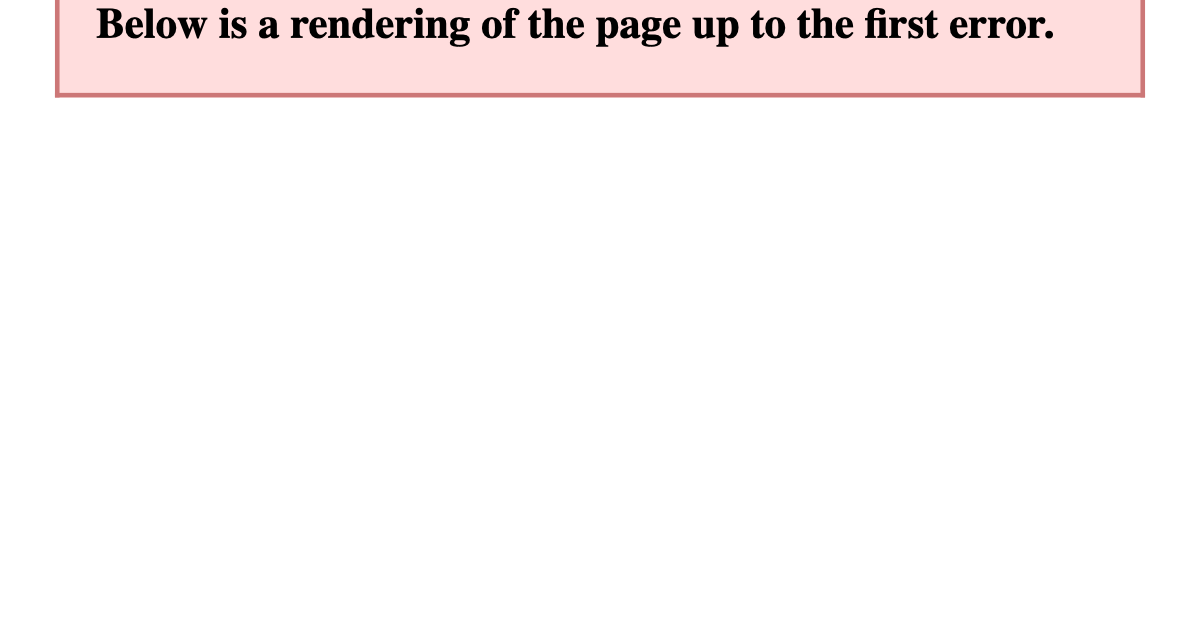
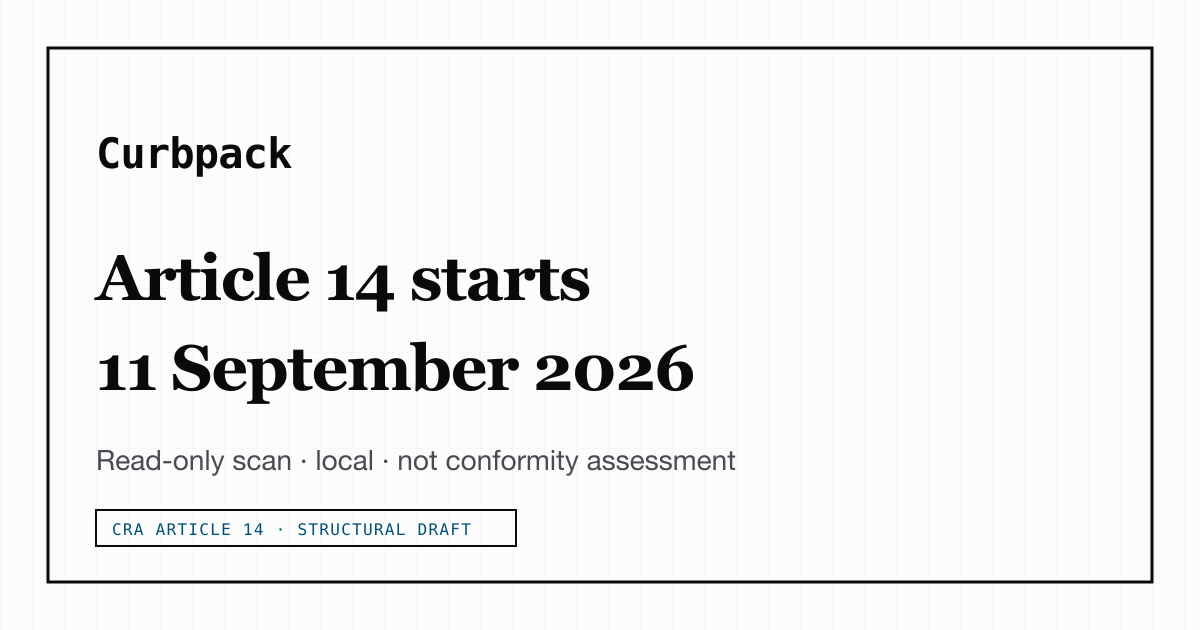
docs: expose launch limitations and repair public audit communication

Changed region(s): [[0.0308, 0.0, 0.9867, 0.9349], [0.0925, 0.7841, 0.4317, 0.8746]]

diff --git a/site/index.html b/site/index.html
@@ -4,9 +4,9 @@
   <meta charset="utf-8" />
   <meta name="viewport" content="width=device-width, initial-scale=1" />
   <title>Curbpack — local pack gates for human review</title>
-  <meta name="description" content="One read-only command tells you where your product stands on CRA Article 14. Runs locally. Writes nothing. Not conformity assessment." />
+  <meta name="description" content="Read-only checks of repository documents against local CRA rule packs. Runs locally. Writes nothing. Not conformity assessment." />
   <meta property="og:title" content="Article 14 starts 11 September 2026 — check your product in 60 seconds" />
-  <meta property="og:description" content="One read-only command tells you where your product stands on CRA Article 14. Runs locally. Writes nothing. Not conformity assessment." />
+  <meta property="og:description" content="Read-only checks of repository documents against local CRA rule packs. Runs locally. Writes nothing. Not conformity assessment." />
   <meta property="og:url" content="https://ri-se.github.io/curbpack/" />
   <meta property="og:image" content="https://ri-se.github.io/curbpack/assets/og-campaign.png" />
   <meta property="og:image:width" content="1200" />
@@ -125,12 +125,12 @@
             <h1 class="font-serif text-4xl sm:text-5xl lg:text-6xl font-semibold tracking-tight text-ink leading-[1.1] mb-4">
               Article 14 reporting starts 11 September 2026
             </h1>
-            <p id="art14-countdown" class="font-mono text-base sm:text-lg text-rise font-medium mb-6" aria-live="polite">Article 14 reporting starts in 23 days (11 September 2026)</p>
+            <p id="art14-countdown" class="font-mono text-base sm:text-lg text-rise font-medium mb-6" aria-live="polite">Article 14 reporting applies from 11 September 2026</p>
             <p class="text-lg sm:text-xl text-ink-muted mb-6 max-w-2xl leading-relaxed font-sans">
               One command, writes nothing — not certification. Curbpack scans your repo read-only on your machine; we never see your code.
             </p>
             <p class="text-base sm:text-lg text-ink mb-2 max-w-2xl leading-relaxed font-sans">
-              The gate is deterministic, runs offline, and cannot be argued with.
+              Curbpack runs local rule-pack checks offline. Findings are structural evidence for human review.
             </p>
             <p class="text-base sm:text-lg text-ink-muted mb-8 max-w-2xl leading-relaxed font-sans">
               We do not use a language model to decide whether you passed.
@@ -221,7 +221,7 @@
         <div class="text-center max-w-2xl mx-auto mb-16">
           <h2 class="font-serif text-3xl font-semibold text-ink mb-3">How it works</h2>
           <p class="text-ink-muted text-lg">Scan read-only → optional init → local check → review pack → human review.</p>
-          <p class="text-ink-muted text-base mt-3 max-w-xl mx-auto">The gate is deterministic, runs offline, and cannot be argued with. We do not use a language model to decide whether you passed.</p>
+          <p class="text-ink-muted text-base mt-3 max-w-xl mx-auto">Curbpack runs local rule-pack checks offline. Findings are structural evidence for human review. We do not use a language model to decide whether you passed.</p>
           <p class="text-ink-muted text-sm mt-3">Three ways in (Write, Bring, CI): <a href="https://github.com/RI-SE/curbpack/blob/main/docs/getting-started/60-second-paths.md" class="font-mono text-ink underline decoration-paper-dark hover:text-rise">60-second paths</a> · <a href="/curbpack/how-it-works/" class="font-mono text-ink underline decoration-paper-dark hover:text-rise">how it works</a></p>
           <p class="text-ink text-sm mt-4 font-medium">Receiving a pack? <a href="/curbpack/for-reviewers/#artifact-trust-table" class="font-mono underline decoration-paper-dark hover:text-rise">Artifact trust table</a> · <a href="/curbpack/receiving-submissions/" class="font-mono underline decoration-paper-dark hover:text-rise">Receiving submissions</a> · <a href="/curbpack/samples/review-pack/" class="font-mono underline decoration-paper-dark hover:text-rise">Sample review-pack</a> · In-repo: <code class="font-mono">curbpack review --repo</code> (<a href="/curbpack/for-reviewers/" class="font-mono underline decoration-paper-dark hover:text-rise">for reviewers</a>)</p>
         </div>
@@ -310,6 +310,8 @@
     </section>
 
   </main>
+
+  <p class="text-center px-6 py-4"><a href="https://github.com/RI-SE/curbpack/blob/main/docs/launch-status.md">Release status and audit limitations</a>: the installer supplies v0.5.4; later repository repairs require a new reviewed release.</p>
 
   <footer class="bg-ink text-paper py-16 mt-auto">
     <div class="max-w-7xl mx-auto px-4 sm:px-6 lg:px-8">

diff --git a/site/art14/index.html b/site/art14/index.html
@@ -5,9 +5,9 @@
   <meta name="viewport" content="width=device-width, initial-scale=1" />
   <!-- Reporting date: internal/clock/clock.go Art14ReportingStart (2026-09-11 UTC) -->
   <title>Article 14 starts 11 September 2026 — check your product in 60 seconds</title>
-  <meta name="description" content="One read-only command tells you where your product stands on CRA Article 14. Runs locally. Writes nothing. Not conformity assessment." />
+  <meta name="description" content="Read-only checks of repository documents against local CRA rule packs. Runs locally. Writes nothing. Not conformity assessment." />
   <meta property="og:title" content="Article 14 starts 11 September 2026 — check your product in 60 seconds" />
-  <meta property="og:description" content="One read-only command tells you where your product stands on CRA Article 14. Runs locally. Writes nothing. Not conformity assessment." />
+  <meta property="og:description" content="Read-only checks of repository documents against local CRA rule packs. Runs locally. Writes nothing. Not conformity assessment." />
   <meta property="og:url" content="https://ri-se.github.io/curbpack/art14/" />
   <meta property="og:image" content="https://ri-se.github.io/curbpack/assets/og-campaign.png" />
   <meta property="og:image:width" content="1200" />
@@ -37,7 +37,7 @@
 
     <section class="section prose">
       <h2>Article 14 reporting starts 11 September 2026</h2>
-      <p id="art14-countdown" class="muted" aria-live="polite">Article 14 reporting starts in 23 days (11 September 2026)</p>
+      <p id="art14-countdown" class="muted" aria-live="polite">Article 14 reporting applies from 11 September 2026</p>
       <p class="sub">Curbpack helps you rehearse an in-repo <strong>reporting-path draft</strong> before the CRA Article 14 reporting clock. This is <strong>not</strong> conformity assessment, EU Login verification, or live Single Reporting Platform access.</p>
       <p class="muted">structural_draft · informational · date source: <code>internal/clock/clock.go</code> (<code>Art14ReportingStart</code>)</p>
 

diff --git a/site/samples/onepager.html b/site/samples/onepager.html
@@ -114,7 +114,7 @@
         <div class="meter">After fix, local gate score on this tree: <strong>100%</strong> — not certification
           <div class="bar"><span class="green"></span></div>
         </div>
-        <p>Chosen rule packs are structural checklists (house policy or regulation-shaped drafts). Gate green is not legal conformity. Human sign-off is <code>curbpack attest</code> — ssh-agent signed means a human bound this tree; unsigned ≠ verified.</p>
+        <p>Chosen rule packs are structural checklists (house policy or regulation-shaped drafts). Gate green is not legal conformity. <code>curbpack attest</code> records a state hash. A valid signature proves key use, not human review or approval; unsigned ≠ verified.</p>
         <dl class="prov">
           <dt>Rule packs</dt><dd>house-policy</dd>
           <dt>Commit</dt><dd>teaching-sample (not a real SHA)</dd>
@@ -122,7 +122,7 @@
           <dt>Signer</dt><dd>local-unsigned</dd>
           <dt>User touch</dt><dd>not-verified</dd>
           <dt>state_hash</dt><dd>(none — run curbpack attest after human review)</dd>
-          <dt>Human sign-off</dt><dd>Pending human review. A reviewer runs curbpack attest; ssh-agent-signed = human-bound on this commit.</dd>
+          <dt>Human sign-off</dt><dd>Pending human review. A signature does not establish human review or approval.</dd>
           <dt>Verify</dt><dd>proof/index.html + local evidence pointer (client-side hash compare)</dd>
         </dl>
         <p class="label" style="margin-top:1rem">Sources (informational — not a gate input)</p>

diff --git a/site/how-it-works/index.html b/site/how-it-works/index.html
@@ -112,7 +112,7 @@
           <tr><td><strong>ssh-agent-signed</strong></td><td>Real SSH signature produced</td></tr>
         </tbody>
       </table>
-      <p>Curbpack decides pass/fail (deterministic). Humans decide what to claim. Tutors propose only and must re-check; they never greenlight or attest.</p>
+      <p>Curbpack evaluates local rule-pack checks. Humans decide what to claim. Tutors propose only and must re-check; they never greenlight or attest.</p>
 
       <p class="muted">Committed sample (front + back): <a href="/curbpack/samples/onepager.html">samples/onepager.html</a>. Optional writer aid: <a href="/curbpack/samples/research-brief.html">research brief sample</a>. Buyer trust table: <a href="/curbpack/for-reviewers/">for reviewers</a>. Authorities path: <a href="/curbpack/for-authorities/">for authorities</a>. Go deeper: <a href="/curbpack/whitepaper/">white paper</a>. Pack authoring: <a href="https://github.com/RI-SE/curbpack/blob/main/docs/write-your-own-pack.md">write your own pack</a>.</p>
     </section>

diff --git a/site/receiving-submissions/index.html b/site/receiving-submissions/index.html
@@ -42,7 +42,7 @@
       <p class="muted">Advanced: <code>curbpack review --verify-chain &lt;parent.json&gt; &lt;child.json&gt;</code> — record digest chain only; not a product verdict or claim-linking step.</p>
 
       <h3>What the gate is</h3>
-      <p>The supplier’s pack gates are deterministic and run offline. Curbpack does not use a language model to decide whether a tree passed. Your <code>curbpack review</code> pass is likewise offline document triage — same inputs, same triage.</p>
+      <p>The supplier’s pack gates evaluate local rules offline. Curbpack does not use a language model to decide whether a tree passed. Your <code>curbpack review</code> pass is likewise offline document triage; it does not establish the truth of supplier claims.</p>
 
       <h3>Samples and trust</h3>
       <ul>

diff --git a/site/for-reviewers/index.html b/site/for-reviewers/index.html
@@ -33,7 +33,7 @@
         <a class="btn" href="/curbpack/receiving-submissions/">Receiving submissions?</a></p>
       <ul>
         <li><strong>Local gate score on this tree</strong> is not a certification score.</li>
-        <li><strong>Gates passed</strong> means deterministic rule-pack checks did not fail — humans still judge annex drafts and risk. No language model decides pass/fail.</li>
+        <li><strong>Gates passed</strong> means local rule-pack checks did not fail — humans still judge annex drafts and risk. No language model decides pass/fail.</li>
         <li><strong>UNSIGNED — not cryptographically verified</strong> until an ssh-agent signed attest. Unsigned ≠ verified.</li>
       </ul>
 

diff --git a/docs/launch-status.md b/docs/launch-status.md
@@ -1,0 +1,78 @@
+# Launch status and audit limitations
+
+Assessment date: 2026-09-05. **Production qualification is incomplete.** The
+released CLI can be installed and used for local structural diagnosis. Its
+output must not be treated as a complete security audit, an approval, or proof of
+regulatory conformity.
+
+## Released, merged, and under review
+
+| Surface | Verified state | Evidence |
+|---|---|---|
+| Public install | v0.5.4; fresh macOS install, version check, and write-free scan passed | [Release](https://github.com/RI-SE/curbpack/releases/tag/v0.5.4), [manifest](../scripts/install-manifest.json), [install smoke](../scripts/release-smoke-install-scan.sh) |
+| Main at audit start | `b6c471751c97f8a95165344274be858cc9cff33c`; newer audit-integrity fixes than v0.5.4 | [Commit](https://github.com/RI-SE/curbpack/commit/b6c471751c97f8a95165344274be858cc9cff33c), [CI run](https://github.com/RI-SE/curbpack/actions/runs/33985475860) |
+| Seven historical false-green findings | Repair commits for FG-01 through FG-07 merged after the SDD baseline; absent from the published v0.5.4 binaries | [PRs 42–49](https://github.com/RI-SE/curbpack/pulls?q=is%3Apr+is%3Amerged), [SDD baseline register](software-design-document.md#81-open-false-green-paths) |
+| This hardening change | Source changes and tests under review; no release tag, installer pin change, or production deployment | [Changelog](../CHANGELOG.md), [release gate](../scripts/release-gate.json) |
+| Private vulnerability reporting | Enabled during this audit | [Private reporting entry point](https://github.com/RI-SE/curbpack/security/advisories/new), [security policy](../SECURITY.md) |
+
+The SDD's measurements remain a historical snapshot of its explicitly pinned
+baseline. They are not a live release dashboard. Passing CI on newer source does
+not update the binaries installed by users.
+
+## Reproduced defects and repairs in this change
+
+| Defect | Repair and reproducible evidence |
+|---|---|
+| A pass and an incomplete evaluation can have the same result digest; ordering equal-gate failures also changes the digest | Bind completeness fields and order all hashed failure fields: [digest tests](../internal/ir/digest_outcome_test.go), [implementation](../internal/ir/digest.go) |
+| The documented `ask failure.json --propose` command rejects its arguments | Accept flags before or after the path, retaining `--` and invalid-argument rejection: [tests](../internal/cli/ask_flags_test.go) |
+| Evaluation cache write failure can return success; cache directory symlinks can write outside the repository | Fail closed and replace complete cache files through temporary files: [regressions](../internal/validate/cache_failure_test.go), [cache writer](../internal/validate/cache_write.go) |
+| A regular file beneath a symlinked ancestor can escape the path check | Resolve the whole existing path, including ancestors; refuse resolved `.git` aliases: [regressions](../internal/pathjail/ancestor_symlink_test.go), [containment](../internal/pathjail/pathjail.go) |
+| Real OpenSSH verification fails; repository or ambient agent keys are used as trust policy | Use stdin and explicit principal with an external operator-selected policy; fail closed without that policy: [real-binary test](../internal/attest/verify_real_test.go), [trust setup](security-model.md#attestation-honesty) |
+| Release dispatch can label the current checkout with another tag; reruns can replace published assets | Check out the requested tag, verify its commit, test source, refuse overwrite, and create a draft: [workflow](../.github/workflows/release.yml), [real Git tests](../scripts/release-ref-test.sh) |
+| CI can hide failed release installation behind a successful workspace build | Run the [fail-closed release install smoke](../scripts/release-smoke-install-scan.sh) in [CI](../.github/workflows/ci.yml) |
+| Public social PNG contains an XML error page | Correct invalid SVG bytes and regenerate the 1200 × 630 [card](../site/assets/og-campaign.png) from [source](../site/assets/og-campaign.svg) |
+| Public wording overstates determinism and identifies signatures as human approval | Narrow homepage and buyer-facing language to structural checks and signature evidence: [home](../site/index.html), [one-pager template](../internal/release/templates/onepager.go) |
+| Security policy advertises unavailable reporting paths and an unverified response promise | Enable private reporting, link it directly, remove the unverified mailbox/SLA and deferred npm support claim: [policy](../SECURITY.md) |
+
+Regression tests were executed against the original behavior before their repair.
+The changed complete-pass digest was independently recomputed with SHA-256; the
+one-pager golden changes only its digest/fingerprint and the reviewed wording.
+
+## Compatibility and interpretation
+
+- Regenerate review packs that contain `outcome` or `skipped_rules` and were
+  produced before the digest repair. Their old digest did not bind those fields;
+  a mismatch must not fall back to that digest. Historical records without either
+  field remain readable, but do not prove evaluation completeness.
+- Verification now requires absolute `CURBPACK_ALLOWED_SIGNERS` and an explicit
+  `CURBPACK_SIGNER_ID`. The policy must be outside the repository under review.
+  Establish its keys independently. Missing tools/policy or failed verification
+  leaves the signature unverified.
+- A signature verifies use of a key for the signed state hash. Human presence,
+  approval, authorization, claim truth, and complete evidence recomputation are
+  separate questions. See [OpenSSH](https://man.openbsd.org/ssh-keygen.1#ALLOWED_SIGNERS).
+- Cache persistence errors now return failure. JSON check/validate output carries
+  `outcome: error` when evaluation completed but its cache could not be persisted.
+  An older cache may remain after failure; it must not be interpreted as a new run.
+- A legacy result digest binds selected structural fields, not every claim,
+  referenced byte, rule-pack byte, or evaluation input. It is not a complete
+  independently verifiable evaluation identity.
+
+## Remaining production gates
+
+These are not closed by compiling binaries or by the passing regression tests.
+
+| Gate | Remaining work | Source |
+|---|---|---|
+| Canonical evaluation and receipt | Separate wall-clock, agent and pathway metadata from canonical evaluation; bind complete rule/input bytes and explicit `as_of`; freeze the versioned format | [SDD W2 and W5](software-design-document.md#12-sequential-work-packages), [current payload](../internal/ir/gatefailure.go) |
+| Transactional persistence and hostile concurrency | Cache files are individually replaced, but three aliases are not one transaction. Descriptor-based containment and concurrent directory replacement remain outside the path-check guarantee | [cache writer](../internal/validate/cache_write.go), [path jail](../internal/pathjail/pathjail.go) |
+| Resource and command guarantees | Evaluator-wide byte/file/subprocess budgets, interruption recovery, command effects, and consistent typed operational errors across every command | [SDD requirements](software-design-document.md#2-constitutional-invariants), [command implementation](../internal/cli/cli.go) |
+| Independent trust assessment | Typed authenticity/integrity/completeness results, full evidence recomputation, and outside review of trust/digest changes | [SDD W4](software-design-document.md#12-sequential-work-packages), [bind resolution](../internal/attest/bind.go) |
+| Release qualification | Review this change; run required CI on its final commit, qualify all supported OS paths, then authorize a new release and installer advertisement | [release workflow](../.github/workflows/release.yml), [required contexts](../.github/required-checks.json) |
+| Human launch checks | Record fresh-machine use and logged-out social preview checks; confirm the responsible support owner | [human runbook](getting-started/a2-a3-human-runbook.md), [validation log](getting-started/stranger-validation-log.md) |
+
+Use `scan` for structural diagnosis and inspect findings. `scan` exit 0 means the
+diagnosis completed; it does not mean gates passed. A complete `check` is the local
+gate result. A buyer must review scope, missing evidence, provenance and trust
+separately. No agent has completed human confirmations, attestation, release
+approval, or the external-user validation log during this audit.

diff --git a/CHANGELOG.md b/CHANGELOG.md
@@ -2,6 +2,11 @@
 
 ## Unreleased (on `main`, not yet pinned — Action pin stays `@v0.5.2`)
 
+- **Launch hardening (unreleased)** — result digests now bind outcome and skipped-rule count; equal-gate failures sort by all hashed fields. Outcome-bearing packs from before this repair must be regenerated; legacy records without completeness fields retain their historical digest and do not prove completeness.
+- **Containment and cache errors** — resolve symlink ancestors and reject aliases into `.git`; evaluation cache files use temporary-file replacement and persistence failure returns an operational error. Legacy cache aliases remain separate files, not a transaction.
+- **Signature verification** — real OpenSSH verification uses stdin, an explicit principal, and an operator-selected external allowed-signers file (`CURBPACK_ALLOWED_SIGNERS`, `CURBPACK_SIGNER_ID`). Repository keys and ambient agent keys no longer grant verification. A signature does not establish human approval.
+- **First use and distribution** — accept documented `ask <file> --propose`; release builds resolve the exact tag, refuse existing-release overwrite, and create drafts for human review. CI install smoke no longer substitutes a workspace build after install failure. Repair the social card and expose release/audit limitations.
+
 - **W7 edges ingest** — `curbpack review --repo --json --edges <file>` ingests human-approved edges JSON (no synthesis; CTAM still owns export). Schema remains Shared Frame §6 TO (0b DECIDED). Action pin unchanged (`@v0.5.2`). Not certification.
 - **v6 reference integrity (Shared Frame + W1–W6)** — method [`docs/method/review-method-1.3.0.md`](docs/method/review-method-1.3.0.md); classifier **`refclass:2`** via [`internal/claimid`](internal/claimid) (Option A + deny-list; Shared Frame **0a** and **0b** DECIDED — [#34](https://github.com/RI-SE/curbpack/pull/34)). `parent_record_digest` + `review --verify-chain`. Buyer/holding settlement three-state: indicative never renders **Yes**; `export --holding-report` refuses when `answers_suppressed`. Production MCP [`cmd/curbpack-mcp`](cmd/curbpack-mcp) (stdio library; no `net/http`). Shared Frame pin `RI-SE/curbpack@a36aeef` (PR #31 merge). Action pin unchanged (no bump). Not certification.
 - **Review Part B through B2** — `review --repo --packs a,b`; thin-surfaces stderr (≤2); Report always emits sorted `triage_surfaces` + `surfaces_digest`; method [`docs/method/review-method-1.1.1.md`](docs/method/review-method-1.1.1.md) + dual re-pin; repo-mode Detail wording (`in-repo …` / `path not found in repo:`) without a second method bump. Operator docs + edges reservation expiry calendar stub. Nomenclature fence: never describe curbpack as measurement (`claim-safety` NOMEN deny). Pin stays `@v0.5.2`. Not certification.

diff --git a/docs/security-model.md b/docs/security-model.md
@@ -28,7 +28,7 @@ Pilot-prod (CLI + Action on other git repos) means exactly these three invariant
 
 | Boundary | What you can trust | What you must not assume |
 |----------|--------------------|--------------------------|
-| Local `check` / `validate` | Deterministic gates on the files present | That a green score is a certificate |
+| Local `check` / `validate` | Local rule-pack checks on the files present | That a green score is a certificate |
 | `install.sh` / `install.ps1` / Action download | Binary matches release `checksums.txt` (sha256, fail-closed) | That "downloaded from GitHub" alone is enough without checksum |
 | `npm` wrapper (`npx curbpack`) | **Deferred** — same checksum path when PR5 ships; not the stranger install path today | That npm is required for first contact |
 | `attest` capsule | Reproducible `state_hash` from commit + evidence digests | That unsigned or agent-bind placeholders are cryptographic signatures |
@@ -53,11 +53,24 @@ The composite Action does **not** prefer a consumer `./bin/curbpack` (that path 
 - **Unsigned:** No agent, or sign failed → capsule is still written, but UI says **UNSIGNED — not cryptographically verified**.
 - Fake `agent-bind:…` tokens are **never** treated as verified signatures.
 
+Verification requires an operator-selected OpenSSH policy outside the reviewed
+repository. Set absolute `CURBPACK_ALLOWED_SIGNERS` and `CURBPACK_SIGNER_ID` before
+opening an attested pack. The file uses OpenSSH allowed-signers syntax, for example
+`reviewer@example.org ssh-ed25519 <public-key-base64>`. Establish the trusted key
+through your own verification process. Repository-owned policy files and ambient
+ssh-agent keys are not trusted for verification. Missing policy, missing OpenSSH,
+or failed verification leaves the artifact not cryptographically verified.
+
+A verified signature establishes use of a key for the signed state hash. It does
+not establish human presence, approval, the truth of claims, or independent
+recomputation of all evidence. See the [OpenSSH verification contract](https://man.openbsd.org/ssh-keygen.1#ALLOWED_SIGNERS)
+and [implementation](../internal/attest/verify.go).
+
 Unsigned ≠ verified. A green readiness score and an unsigned capsule are compatible — and must be labeled honestly.
 
 ## Socket (optional integrator IPC)
 
-Optional Unix IPC for MCP integrators lives in [`examples/mcp/`](../../examples/mcp/) — not in the main binary. Default path is **not** a shared `/tmp/curbpack.sock`. Prefer:
+Optional Unix IPC for MCP integrators lives in [`examples/mcp/`](../examples/mcp/) — not in the main binary. Default path is **not** a shared `/tmp/curbpack.sock`. Prefer:
 
 1. `CURBPACK_SOCK` if set
 2. `$XDG_RUNTIME_DIR/curbpack/curbpack.sock`

diff --git a/docs/for-authorities.md b/docs/for-authorities.md
@@ -18,7 +18,7 @@ Voice: [voice and terms](voice-and-terms.md). Abbreviations: [glossary and audie
 | Artifact | How produced | Trust level (honest) |
 |----------|--------------|----------------------|
 | **Scan output** (`scan`) | Read-only pack evaluation; no cache, no init | **Structural diagnosis** — defaults to `cra-baseline` on cold repos; not certification |
-| Gate JSON / action report (`check`, `validate`) | Local deterministic pack evaluation | **Structural evidence** — reproducible on the same tree; not a legal finding |
+| Gate JSON / action report (`check`, `validate`) | Local rule-pack evaluation | **Structural evidence** — reproducible on the same tree; not a legal finding |
 | SARIF export | `export --sarif` / Action upload | Same findings in IDE/CI format; still pack gates, not certification |
 | Buyer-questions checklist | `export --buyer-questions` | Human Q&A aid; rows carry `assurance_class: structural_draft` |
 | ContextPack | `export --context-pack` (or `share`) | One washed assistant/auditor snapshot — still structural evidence, not certification |
@@ -39,7 +39,7 @@ Voice: [voice and terms](voice-and-terms.md). Abbreviations: [glossary and audie
 - **Not** an official NCSC/FRA/agency product or endorsement vehicle.
 - **Not** dependent on any private tutor product to operate.
 
-Gate pass means: deterministic pack rules did not fail on the files present — a human still judges risk, annex drafts, and legal posture.
+Gate pass means: local pack rules did not fail on the files present — a human still judges risk, annex drafts, and legal posture.
 
 ## Institute neutrality
 

diff --git a/SECURITY.md b/SECURITY.md
@@ -2,20 +2,19 @@
 
 ## Reporting
 
-Email **security@curbpack.dev** (or open a private GitHub Security Advisory on
-[RI-SE/curbpack](https://github.com/RI-SE/curbpack)) with vulnerability details.
-Do **not** open public issues for sensitive reports.
+Use [GitHub private vulnerability reporting](https://github.com/RI-SE/curbpack/security/advisories/new)
+for vulnerability details. Do **not** open public issues for sensitive reports.
 
 Include: affected version/commit, reproduction steps, impact, and any suggested fix.
 
 ## Response
 
-We acknowledge within **two business days** and coordinate disclosure timelines with reporters.
+Disclosure timelines are coordinated through the private report. No fixed response-time service level is offered.
 Critical issues affecting install integrity or evidence tampering are prioritized.
 
 ## Scope
 
-In scope: the `curbpack` CLI, embedded packs, GitHub Action, `scripts/install.sh`, and the **`curbpack` npm wrapper** (cached binary under `~/.curbpack/bin` or `%LOCALAPPDATA%\curbpack`).
+In scope: the `curbpack` CLI, embedded packs, GitHub Action, `scripts/install.sh`, and the release binaries. The npm wrapper is deferred and is not a supported installation channel.
 
 Out of scope: customer product repos scanned by Curbpack; third-party packs you import;
 misuse of gate results as certification claims.

diff --git a/docs/glossary-and-audience.md b/docs/glossary-and-audience.md
@@ -26,7 +26,7 @@ Canonical abbreviations and “who reads what.” Expand each term on first use 
 | **CI** | Continuous Integration — e.g. GitHub Actions pin `@v0.5.2`. |
 | **SCA** | Software Composition Analysis — pair Curbpack with tools such as Trivy/OSV for depth; Curbpack is not an SCA platform. |
 | **CVE** | Common Vulnerabilities and Exposures — watchlist∩SBOM is look-here only, not CVE management. |
-| **Gate** / **check** | A deterministic rule-pack evaluation. Exit `0` = gates passed on this tree for human review — **not** certification. |
+| **Gate** / **check** | A local rule-pack evaluation. Exit `0` = gates passed on this tree for human review — **not** certification. |
 | **Curb outlines** | Pathway warm-start entry (Write→Check): sketch what you are curbing before packs/check. Bring/CI skip outlines. |
 | **Rule pack** / **pack** | JSON rule set (house-policy by default; CRA-shaped annex drafts or sector templates when opted in). Data, not hard-coded industry law. |
 | **Review pack** | Folder of evidence for human review from `prepare-release` (JSON, markdown, optional buyer one-pager). |
